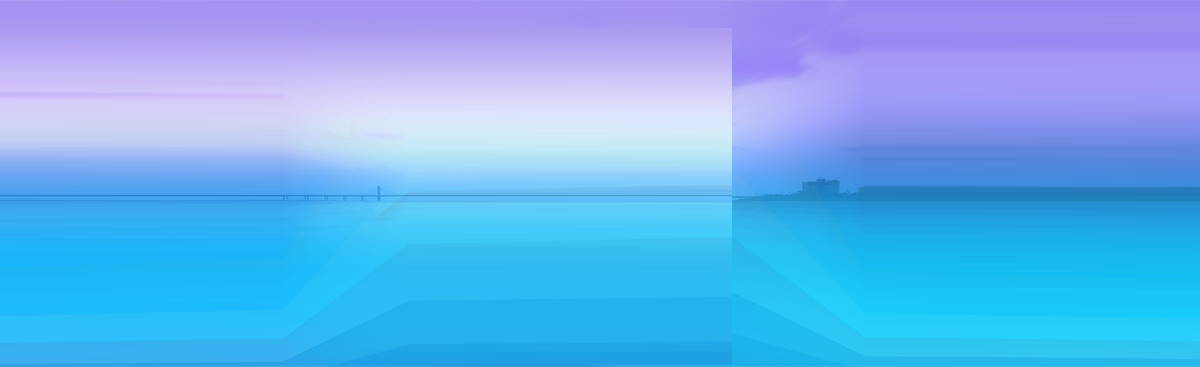
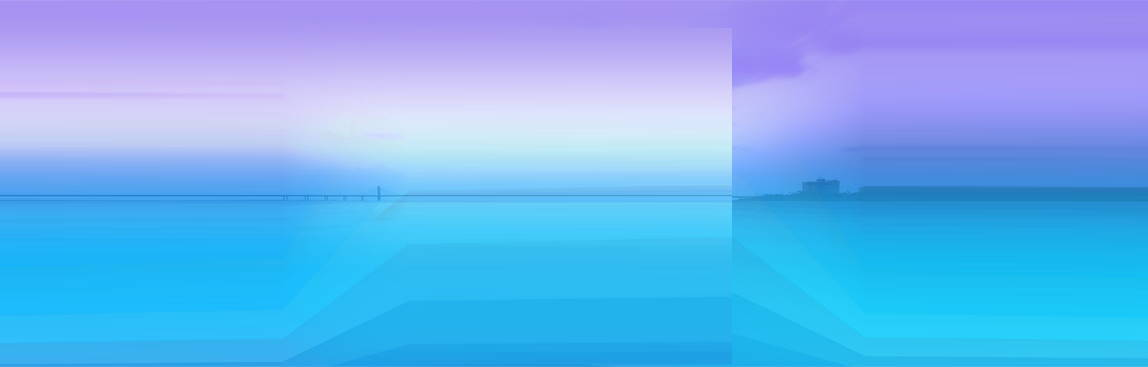
Hero section #3

Changed region(s): [[0.6098, 0.0899, 0.7622, 0.6294], [0.6707, 0.1499, 0.7012, 0.2098], [0.3049, 0.5095, 0.3354, 0.5395]]

diff --git a/css/custom.css b/css/custom.css
@@ -1,3 +1,41 @@
 .bg-blue {
     background-color: #03a7f2;
 }
+
+.row-short {
+    text-align: center;
+}
+
+.hero {
+    min-height: 100vh;
+    background-image: url(../img/background.jpg);
+    background-size: cover;
+    background-position: center;
+    background-attachment: fixed;
+}
+
+.hero img {
+    height: 30px;
+    margin-bottom: 40px;
+}
+.hero h1 {
+    display: inline-block;
+    width: 100%;
+    margin-bottom: 20px;
+    text-transform: uppercase;
+    font-size: 54px;
+    line-height: 60px;
+}
+.hero p {
+    display: inline-block;
+    width: 100%;
+    margin-bottom: 60px;
+    font-size: 18px;
+    line-height: 22px;
+}
+.hero .clock {
+    margin-bottom: 60px;
+}
+.hero form {
+    margin-bottom: 20px;
+}

diff --git a/index.html b/index.html
@@ -20,9 +20,20 @@
 </head>
 
 <body>
-    <div class="container bg-blue">
+    <div class="container bg-blue hero">
         <div class="row-short">
-            HERO CONTENT
+            <img src="./img/logo.png" alt="Logo">
+            <h1>Coming soon</h1>
+            <p>Lorem ipsum, dolor sit amet consectetur adipisicing elit. Culpa, repellendus ducimus? Tempora dignissimos aperiam nostrum ab accusantium suscipit.</p>
+            <div class="clock">
+                CLOCK
+            </div>
+            <form>
+                SUBSCRIBE FORM
+            </form>
+            <div class="mouse">
+                MOUSE
+            </div>
         </div>
     </div>
     <main class="container">
